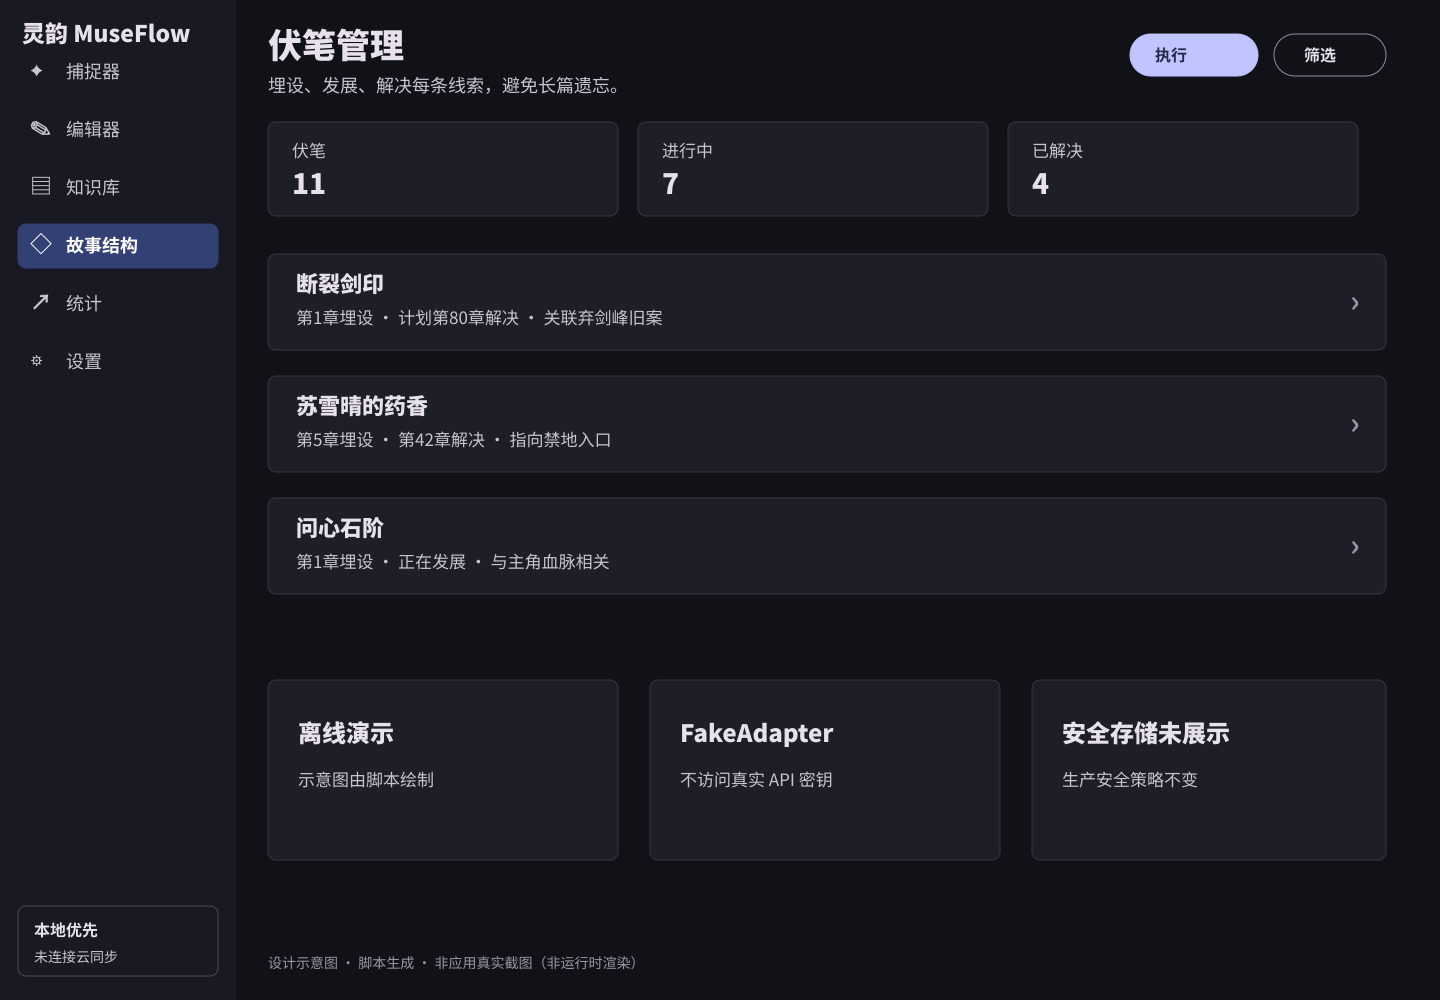
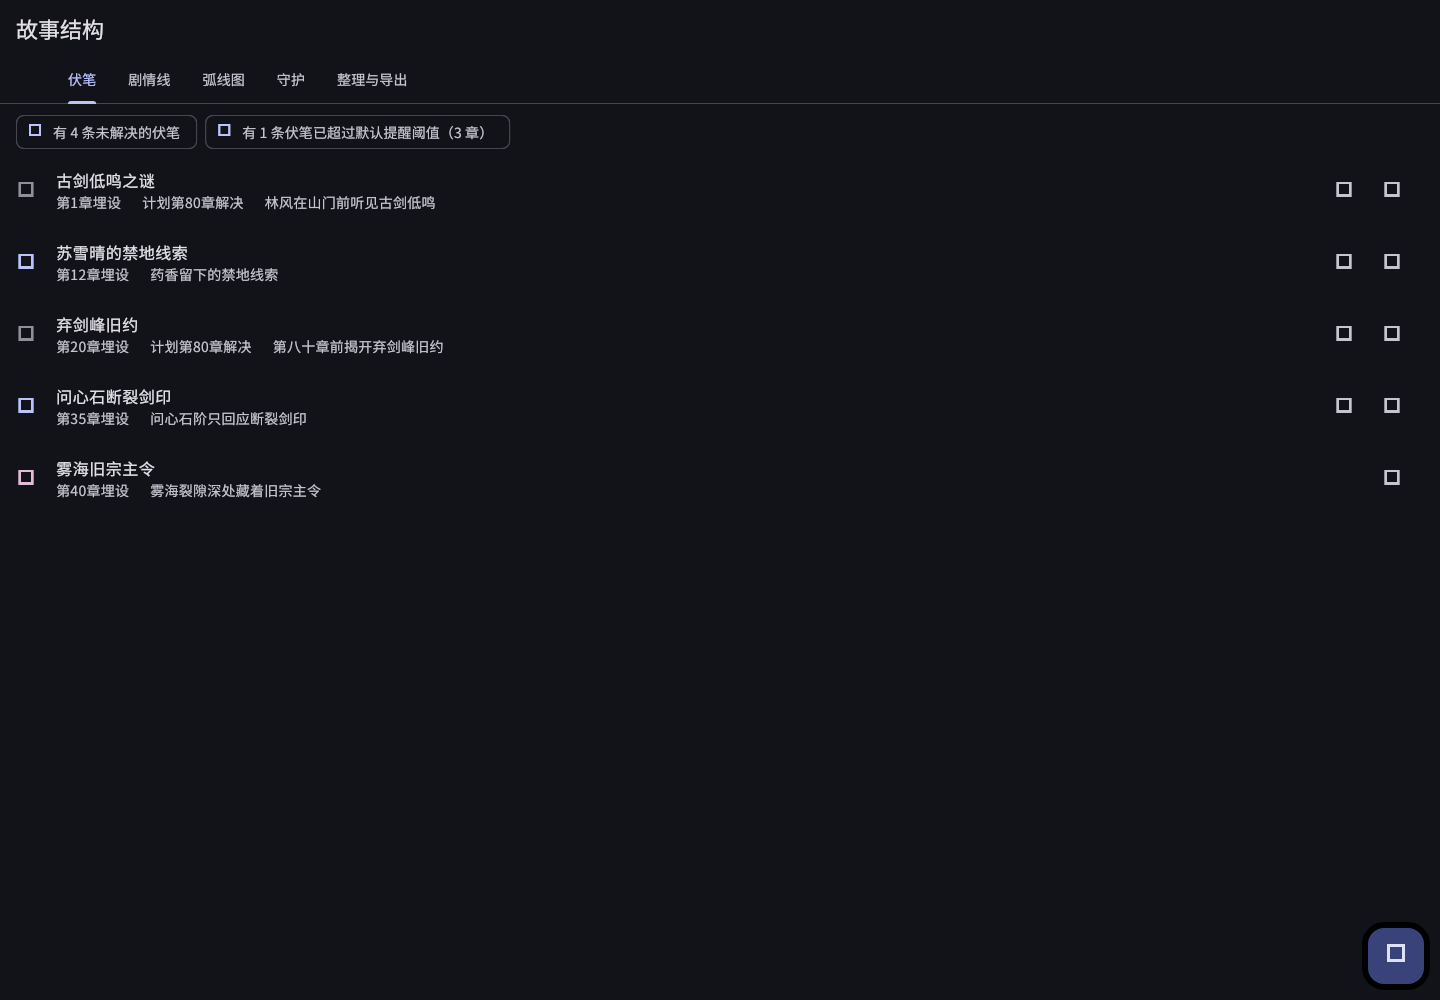
docs(readme): real golden render replaces foreshadowing mockup
README #10 伏笔管理 → StoryStructurePage 伏笔 tab 真实 widget golden 渲染（替代 SVG mockup）。
override foreshadowingNotifierProvider 喂 5 修仙伏笔 seed（混 planted/developing/resolved 状态）。
README.md/en.md disclosure 清单 4 处加入「伏笔管理(10)/Foreshadowing(10)」。

diff --git a/test/readme_screenshots/foreshadowing_test.dart b/test/readme_screenshots/foreshadowing_test.dart
@@ -1,0 +1,150 @@
+/// Real widget screenshot generator for the README foreshadowing image (#10).
+///
+/// Renders the **actual** [StoryStructurePage] on the 伏笔 (foreshadowing) tab:
+/// the default tab 0 of the 5-tab structure page (伏笔/剧情线/弧线图/守护/整理与导出).
+/// Shows the AppBar + TabBar + foreshadowing entry list + FAB.
+///
+/// `_ForeshadowingSection` watches `foreshadowingNotifierProvider`; overridden
+/// with seeded entries. `_ForeshadowingTile` has no provider dependency on the
+/// render path (only ref.read in delete action), so a single override suffices.
+/// Default tab 0 = 伏笔, so no tab interaction is needed.
+///
+/// Shares the bundled universal GB2312 subset `test_assets/noto_sans_sc_subset.ttf`.
+///
+/// Regenerate after changing the page or seed data:
+///   flutter test test/readme_screenshots/foreshadowing_test.dart --update-goldens
+library;
+
+import 'dart:io';
+
+import 'package:flutter/material.dart';
+import 'package:flutter/services.dart';
+import 'package:flutter_riverpod/flutter_riverpod.dart';
+import 'package:flutter_test/flutter_test.dart';
+import 'package:museflow/core/presentation/providers.dart';
+import 'package:museflow/features/story_structure/application/foreshadowing_notifier.dart';
+import 'package:museflow/features/story_structure/domain/foreshadowing_entry.dart';
+import 'package:museflow/features/story_structure/presentation/story_structure_page.dart';
+
+void main() {
+  setUpAll(() async {
+    final bytes = await File('test_assets/noto_sans_sc_subset.ttf').readAsBytes();
+    final loader = FontLoader('Noto Sans CJK SC');
+    loader.addFont(Future.value(ByteData.sublistView(bytes)));
+    await loader.load();
+  });
+
+  testWidgets('StoryStructurePage (伏笔) renders a real 1440x1000 screenshot',
+      (tester) async {
+    tester.view.physicalSize = const Size(1440, 1000);
+    tester.view.devicePixelRatio = 1.0;
+    addTearDown(tester.view.resetPhysicalSize);
+    addTearDown(tester.view.resetDevicePixelRatio);
+
+    await tester.pumpWidget(
+      ProviderScope(
+        overrides: [
+          foreshadowingNotifierProvider.overrideWith(
+            () => _SeededForeshadowingNotifier(),
+          ),
+        ],
+        child: MaterialApp(
+          debugShowCheckedModeBanner: false,
+          theme: _screenshotTheme(),
+          home: const StoryStructurePage(),
+        ),
+      ),
+    );
+    await tester.pumpAndSettle();
+
+    // Prove the seeded data rendered: the 伏笔 tab and seeded entry titles.
+    expect(find.text('伏笔'), findsOneWidget);
+    expect(find.text('古剑低鸣之谜'), findsOneWidget);
+    expect(find.text('弃剑峰旧约'), findsOneWidget);
+
+    await expectLater(
+      find.byType(StoryStructurePage),
+      matchesGoldenFile('../../docs/readme/screenshots/10-foreshadowing.png'),
+    );
+  });
+}
+
+/// Seeded ForeshadowingNotifier returning 5 xianxia foreshadowing entries,
+/// bypassing the repository/Hive chain. Mix of statuses (planted/developing/
+/// resolved) and modes to render the status icons truthfully. createdAt uses a
+/// FIXED DateTime.
+class _SeededForeshadowingNotifier extends ForeshadowingNotifier {
+  @override
+  Future<List<ForeshadowingEntry>> build() async {
+    final created = _created;
+    return <ForeshadowingEntry>[
+      ForeshadowingEntry(
+        id: 'f1',
+        title: '古剑低鸣之谜',
+        mode: ForeshadowingMode.detailed,
+        status: ForeshadowingStatus.planted,
+        plantedChapter: 1,
+        targetResolutionChapter: 80,
+        sourceExcerpt: '林风在山门前听见古剑低鸣',
+        notes: '与断裂剑印呼应，暗示剑灵未灭',
+        createdAt: created,
+      ),
+      ForeshadowingEntry(
+        id: 'f2',
+        title: '苏雪晴的禁地线索',
+        mode: ForeshadowingMode.simple,
+        status: ForeshadowingStatus.developing,
+        plantedChapter: 12,
+        sourceExcerpt: '药香留下的禁地线索',
+        createdAt: created,
+      ),
+      ForeshadowingEntry(
+        id: 'f3',
+        title: '弃剑峰旧约',
+        mode: ForeshadowingMode.detailed,
+        status: ForeshadowingStatus.planted,
+        plantedChapter: 20,
+        targetResolutionChapter: 80,
+        sourceExcerpt: '第八十章前揭开弃剑峰旧约',
+        createdAt: created,
+      ),
+      ForeshadowingEntry(
+        id: 'f4',
+        title: '问心石断裂剑印',
+        mode: ForeshadowingMode.simple,
+        status: ForeshadowingStatus.developing,
+        plantedChapter: 35,
+        sourceExcerpt: '问心石阶只回应断裂剑印',
+        createdAt: created,
+      ),
+      ForeshadowingEntry(
+        id: 'f5',
+        title: '雾海旧宗主令',
+        mode: ForeshadowingMode.simple,
+        status: ForeshadowingStatus.resolved,
+        plantedChapter: 40,
+        resolvedChapter: 68,
+        sourceExcerpt: '雾海裂隙深处藏着旧宗主令',
+        createdAt: created,
+      ),
+    ];
+  }
+}
+
+final DateTime _created = DateTime(2026, 6, 1, 9, 30);
+
+ThemeData _screenshotTheme() {
+  final colorScheme = ColorScheme.fromSeed(
+    seedColor: Colors.indigo,
+    brightness: Brightness.dark,
+  );
+  final base = Typography.material2021().white.apply(fontFamily: 'Noto Sans CJK SC');
+  return ThemeData(
+    colorScheme: colorScheme,
+    useMaterial3: true,
+    textTheme: base.apply(
+      bodyColor: colorScheme.onSurface,
+      displayColor: colorScheme.onSurface,
+    ),
+  );
+}

diff --git a/README.en.md b/README.en.md
@@ -36,7 +36,7 @@ The Chinese name, 灵韵, means the spirit and rhythm of inspiration. MuseFlow c
 
 ## User Journey & UI Mockups
 
-The images below illustrate each feature module. The **Manuscript library** (1st image), the **Capture inbox** (2nd image), the **Character cards** (6th image), the **World settings** (7th image), the **Skill rules** (9th image), the **Writing stats** (15th image), the **Token audit** (16th image), the **Analysis reports hub** (17th image), the **Report details** (18th image), the **Settings** (19th image), the **AI providers** (20th image) and the **AI phrase filter** (21st image) are real widget renders, deterministically produced by the golden tests under `test/readme_screenshots/` (with a bundled Noto Sans CJK SC subset for cross-platform-consistent Chinese, using offline demo data); the rest are design mockups programmatically drawn by `scripts/generate_readme_screenshots.mjs` (SVG → PNG, not live renders). We follow a xianxia serial author's journey to walk through idea capture, manuscript management, chapter writing, knowledge management, structure tracking, analytics, and model configuration. All images use offline demo data and never read real API keys; real screenshots are being migrated page-by-page from mockups via golden tests.
+The images below illustrate each feature module. The **Manuscript library** (1st image), the **Capture inbox** (2nd image), the **Character cards** (6th image), the **World settings** (7th image), the **Skill rules** (9th image), the **Foreshadowing** (10th image), the **Writing stats** (15th image), the **Token audit** (16th image), the **Analysis reports hub** (17th image), the **Report details** (18th image), the **Settings** (19th image), the **AI providers** (20th image) and the **AI phrase filter** (21st image) are real widget renders, deterministically produced by the golden tests under `test/readme_screenshots/` (with a bundled Noto Sans CJK SC subset for cross-platform-consistent Chinese, using offline demo data); the rest are design mockups programmatically drawn by `scripts/generate_readme_screenshots.mjs` (SVG → PNG, not live renders). We follow a xianxia serial author's journey to walk through idea capture, manuscript management, chapter writing, knowledge management, structure tracking, analytics, and model configuration. All images use offline demo data and never read real API keys; real screenshots are being migrated page-by-page from mockups via golden tests.
 
 ### 1. Manage Multiple Works
 
@@ -167,7 +167,7 @@ flutter test
 flutter build web --release
 ```
 
-This README's showcase material: the **Manuscript library** (01), the **Capture inbox** (02), the **Character cards** (06), the **World settings** (07), the **Skill rules** (09), the **Writing stats** (15), the **Token audit** (16), the **Analysis reports hub** (17), the **Report details** (18), the **Settings** (19), the **AI providers** (20) and the **AI phrase filter** (21) are real widget renders (generated by golden tests), the rest are design mockups drawn by `scripts/generate_readme_screenshots.mjs` (SVG → PNG). All use offline demo data with no real API keys; real screenshots are being migrated page-by-page from mockups via golden tests.
+This README's showcase material: the **Manuscript library** (01), the **Capture inbox** (02), the **Character cards** (06), the **World settings** (07), the **Skill rules** (09), the **Foreshadowing** (10), the **Writing stats** (15), the **Token audit** (16), the **Analysis reports hub** (17), the **Report details** (18), the **Settings** (19), the **AI providers** (20) and the **AI phrase filter** (21) are real widget renders (generated by golden tests), the rest are design mockups drawn by `scripts/generate_readme_screenshots.mjs` (SVG → PNG). All use offline demo data with no real API keys; real screenshots are being migrated page-by-page from mockups via golden tests.
 
 ## v1.3 User Journey Showcase
 